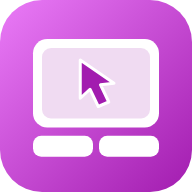
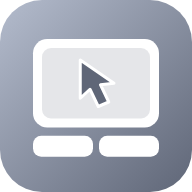
SIM PAD: 컨셉 색상을 회색 톤으로 변경 (앱 화면·아이콘·런처 카드)
Claude-Session: https://claude.ai/code/session_01JdTac8WY8siU7gVc78ssdp

diff --git a/pad.html b/pad.html
@@ -13,7 +13,7 @@
 <style>
 :root{
   --bg:#0f1117; --panel:#171a23; --panel2:#1f2330; --line:#2a2f3f;
-  --text:#e8eaf0; --sub:#8b92a8; --accent:#d946ef; --accent2:#a21caf; --danger:#ff5d5d; --ok:#3ecf8e; --warn:#ffc46b;
+  --text:#e8eaf0; --sub:#8b92a8; --accent:#a8b0c2; --accent2:#6b7285; --danger:#ff5d5d; --ok:#3ecf8e; --warn:#ffc46b;
 }
 *{box-sizing:border-box;margin:0;padding:0;-webkit-tap-highlight-color:transparent}
 html,body{height:100%}
@@ -40,20 +40,20 @@ main{flex:1;min-height:0;display:grid;grid-template-rows:minmax(0,1fr) auto;gap:
   background:radial-gradient(120% 100% at 50% 0%,#232838 0%,#171b27 55%,#12151f 100%);
   border:1px solid #303650;box-shadow:inset 0 2px 0 rgba(255,255,255,.06),inset 0 -6px 18px rgba(0,0,0,.45),0 6px 18px rgba(0,0,0,.4)}
 #pad::after{content:'SIM PAD';position:absolute;left:0;right:0;bottom:14px;text-align:center;font-size:12px;letter-spacing:4px;font-weight:700;color:rgba(255,255,255,.07);pointer-events:none}
-#pad.act{border-color:var(--accent);box-shadow:inset 0 0 0 1px rgba(217,70,239,.35),inset 0 -6px 18px rgba(0,0,0,.45),0 0 22px rgba(217,70,239,.18)}
+#pad.act{border-color:var(--accent);box-shadow:inset 0 0 0 1px rgba(168,176,194,.35),inset 0 -6px 18px rgba(0,0,0,.45),0 0 22px rgba(168,176,194,.18)}
 #pad.off{opacity:.55}
 .dot{position:absolute;width:54px;height:54px;margin:-27px 0 0 -27px;border-radius:50%;pointer-events:none;
-  background:radial-gradient(circle,rgba(217,70,239,.45),rgba(217,70,239,.08) 70%,transparent);}
+  background:radial-gradient(circle,rgba(168,176,194,.45),rgba(168,176,194,.08) 70%,transparent);}
 .mbtns{display:flex;gap:8px;flex:none;height:54px}
 .mbtns.hide{display:none}
 .mb{flex:1;border-radius:14px;font-size:14px;font-weight:700;color:#c9cde0;background:linear-gradient(180deg,#252a3a,#1a1e2b);border:1px solid #303650;box-shadow:inset 0 1px 0 rgba(255,255,255,.07);touch-action:none}
 .mb.mid{flex:.45}
-.mb.dn{background:linear-gradient(180deg,#3a2142,#2a1730);border-color:var(--accent);color:#fff}
+.mb.dn{background:linear-gradient(180deg,#383d4d,#2a2e3b);border-color:var(--accent);color:#fff}
 
 .panel{display:flex;flex-direction:column;gap:8px;min-height:0}
 .tabs{display:flex;gap:6px;flex:none}
 .tabs button{flex:1;padding:9px 4px;font-size:13.5px;font-weight:600;border-radius:10px;color:var(--sub)}
-.tabs button.on{color:#fff;background:linear-gradient(180deg,#8f2aa0,#6a1b78);border-color:var(--accent)}
+.tabs button.on{color:#fff;background:linear-gradient(180deg,#6b7285,#4a505f);border-color:var(--accent)}
 .tabbody{display:none;flex-direction:column;gap:7px}
 .tabbody.on{display:flex}
 .row{display:flex;gap:6px}
@@ -61,7 +61,7 @@ main{flex:1;min-height:0;display:grid;grid-template-rows:minmax(0,1fr) auto;gap:
 .row.scroll{overflow-x:auto;scrollbar-width:none}
 .row.scroll>button{flex:none;min-width:52px}
 .row.scroll::-webkit-scrollbar{display:none}
-.row>button.latch.on{background:linear-gradient(180deg,#8f2aa0,#6a1b78);border-color:var(--accent);color:#fff}
+.row>button.latch.on{background:linear-gradient(180deg,#6b7285,#4a505f);border-color:var(--accent);color:#fff}
 .grid{display:grid;grid-template-columns:repeat(3,1fr);gap:6px}
 .grid button{padding:12px 4px;font-size:13px;font-weight:600;border-radius:10px;line-height:1.25}
 .grid button small{display:block;font-size:10.5px;color:var(--sub);font-weight:500;margin-top:2px}
@@ -89,7 +89,7 @@ input[type=text]:focus{border-color:var(--accent)}
 .sw input::after{content:"";position:absolute;left:3px;top:3px;width:21px;height:21px;border-radius:50%;background:#fff;transition:.15s}
 .sw input:checked{background:var(--accent)}
 .sw input:checked::after{left:22px}
-.pri{background:linear-gradient(180deg,#b72fc9,#8f2aa0);border-color:var(--accent);color:#fff;font-weight:700;padding:12px;border-radius:10px;font-size:15px}
+.pri{background:linear-gradient(180deg,#7d8599,#6b7285);border-color:var(--accent);color:#fff;font-weight:700;padding:12px;border-radius:10px;font-size:15px}
 .dang{color:var(--danger)}
 .note{font-size:12.5px;color:var(--sub);line-height:1.55}
 .note b{color:var(--text)}

diff --git a/index.html b/index.html
@@ -159,7 +159,7 @@ button.danger{color:#ff8a8a}
     { id: 'radio', color: '#4f8cff', name: 'SIM Radio', desc: 'FM 주파수 다이얼 · 실제 라디오 방송 듣기 · KBS·MBC·SBS·CBS·EBS', url: 'radio.html', icon: 'radio-icon-192.png', tag: '라디오' },
     { id: 'calc', color: '#22d3c5', name: 'SIM Calculator', desc: '상업용 12자리 계산기 · 실시간 환율 계산 · 음성으로 환율 계산', url: 'calc.html', icon: 'calc-icon-192.png', tag: '계산기' },
     { id: 'map', color: '#ff7849', name: 'SIM Map', desc: '카카오 지도 · 맛집·명소 저장 · 현재 위치 등록 · 사진·음성 메모 · 인근 검색 · 네이버 내비', url: 'map.html', icon: 'map-icon-192.png', tag: '지도' },
-    { id: 'pad', color: '#d946ef', name: 'SIM PAD', desc: '터치패드 · 마우스·키보드 대신 쓰기 · PC 원격 입력 · 단축키·미디어 키', url: 'pad.html', icon: 'pad-icon-192.png', tag: '터치패드' }
+    { id: 'pad', color: '#a8b0c2', name: 'SIM PAD', desc: '터치패드 · 마우스·키보드 대신 쓰기 · PC 원격 입력 · 단축키·미디어 키', url: 'pad.html', icon: 'pad-icon-192.png', tag: '터치패드' }
   ];
 
   const $ = id => document.getElementById(id);
